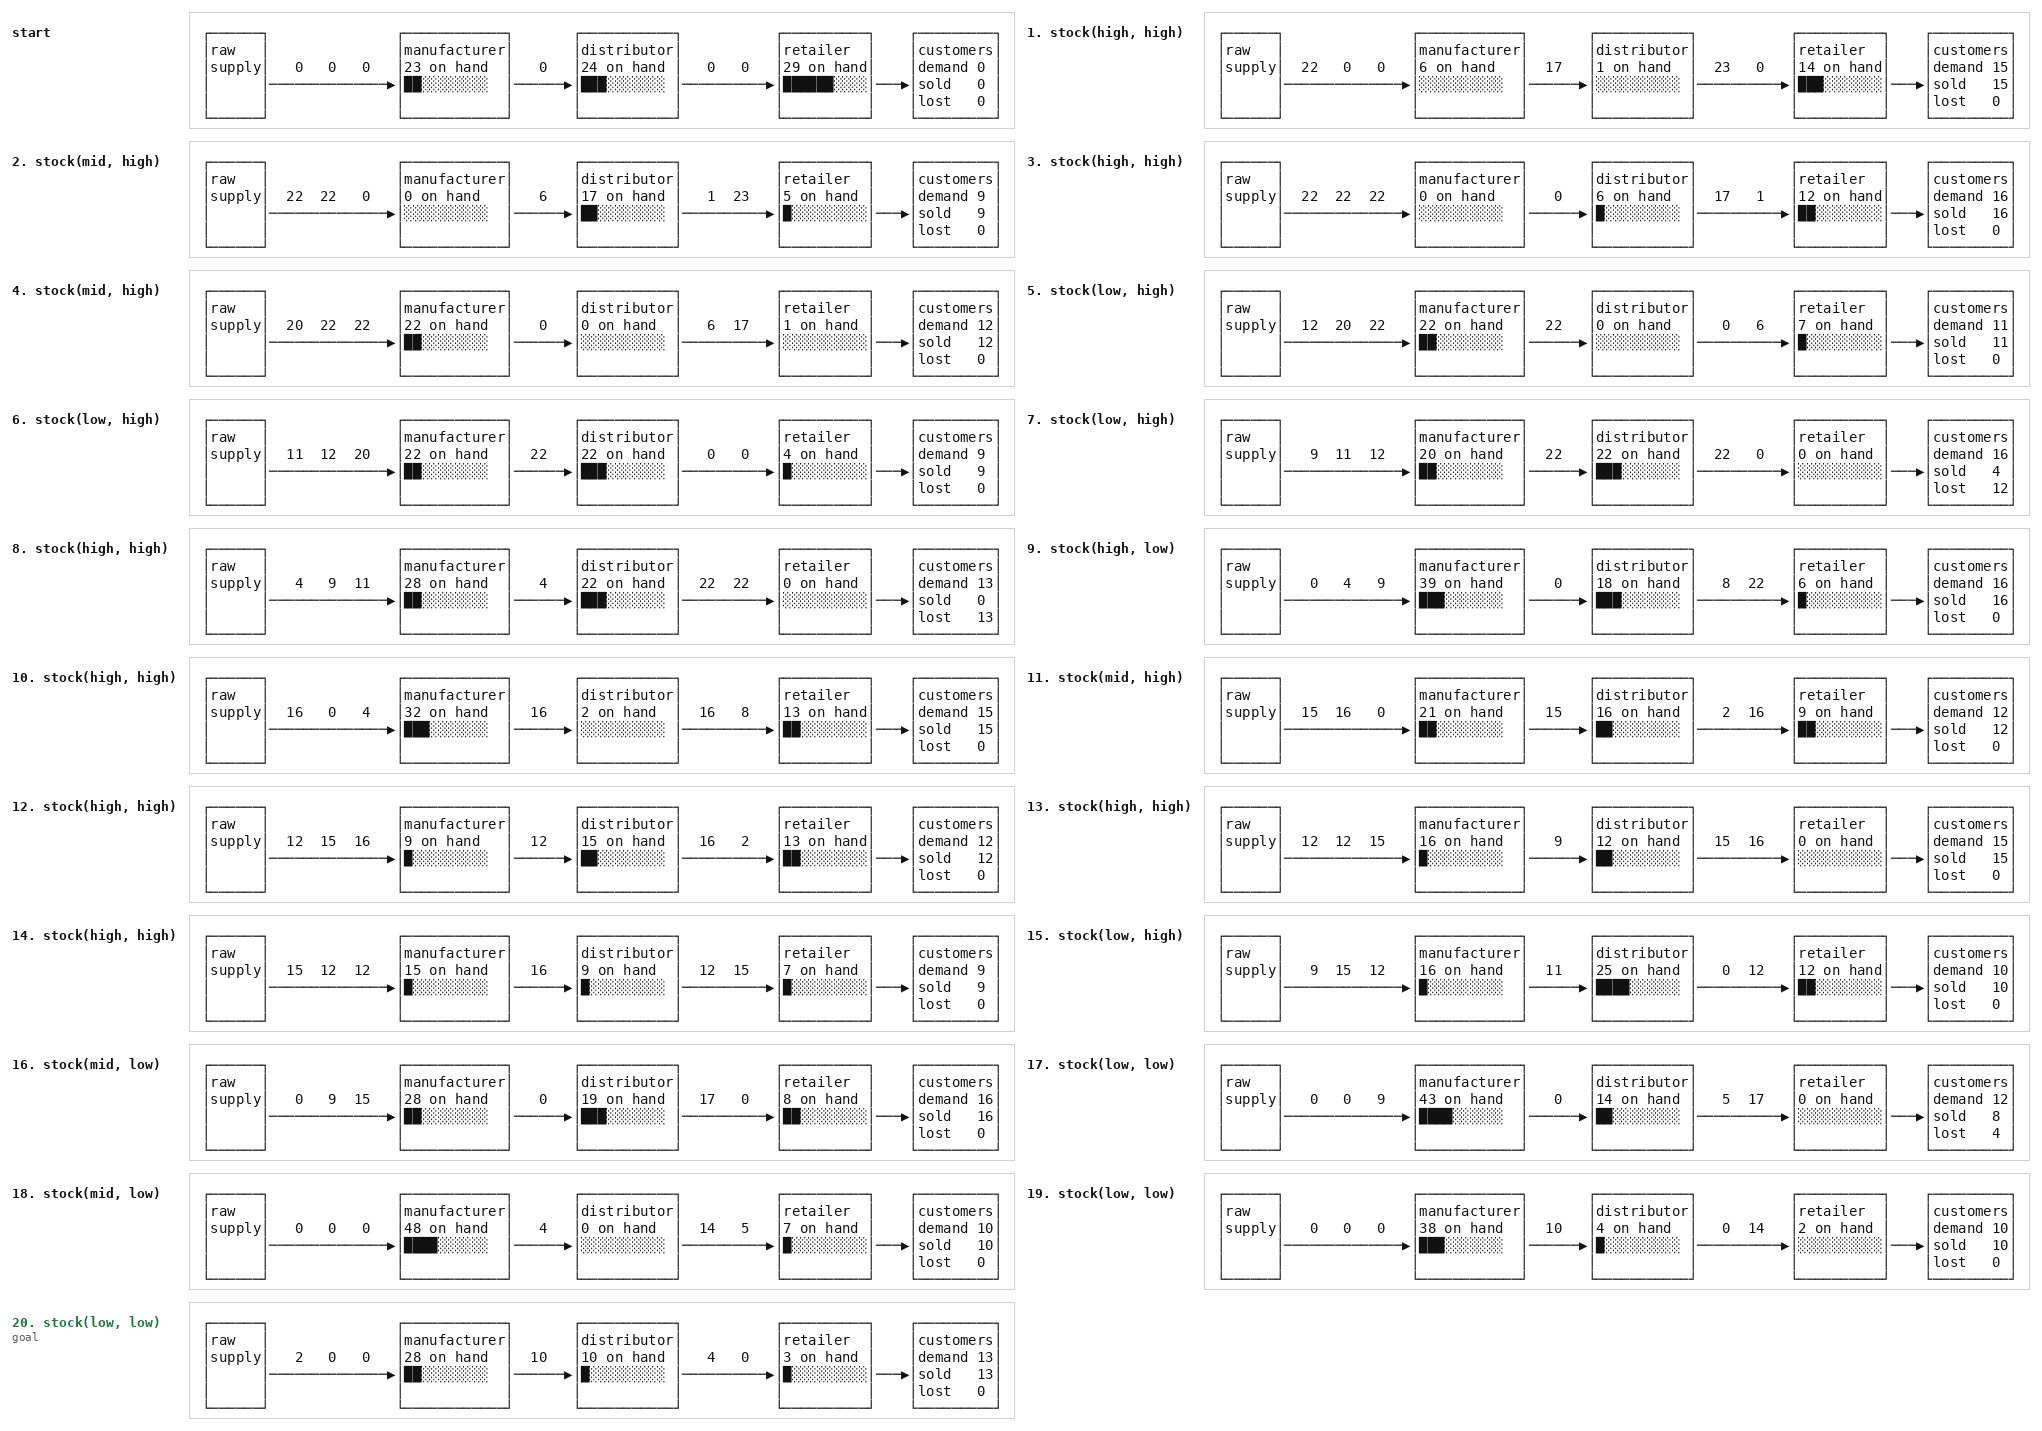
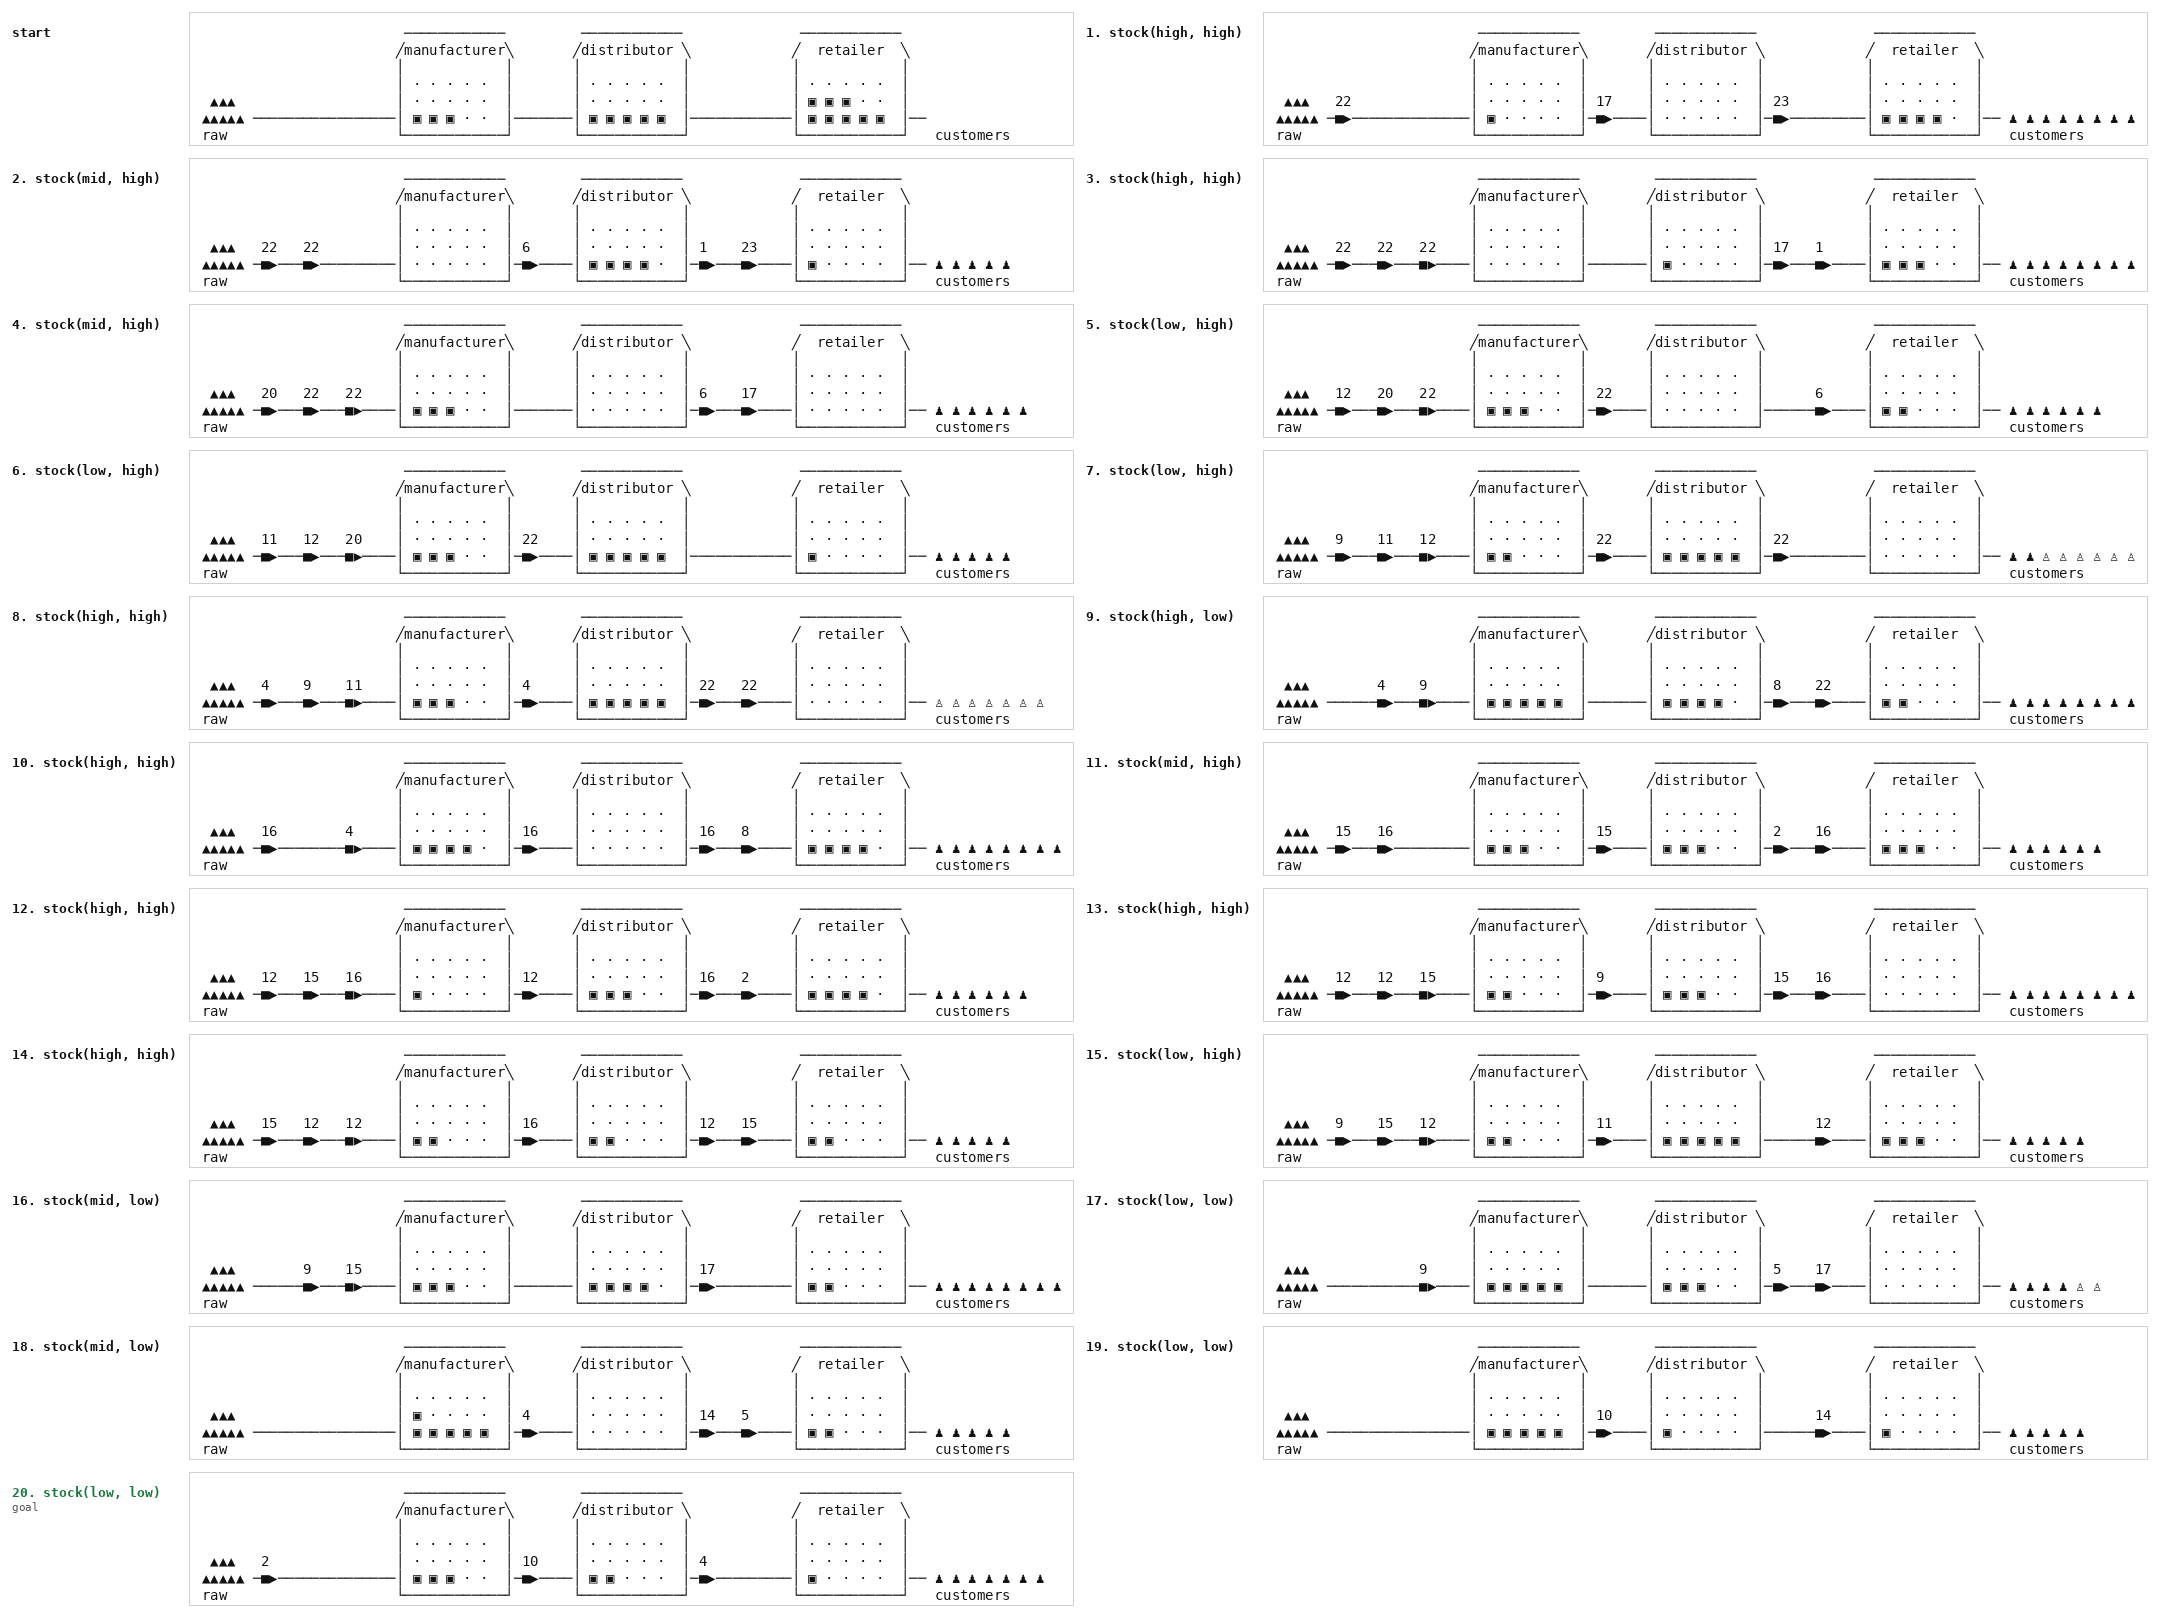
Draw the supply chain as a street of warehouses, trucks and customers
Each stage is a warehouse with its stock stacked as crates, each shipment
in transit a truck on the road into it with its load, and the last
period's customers queue at the end, served or turned away.

Claude-Session: https://claude.ai/code/session_01CbUM6vVu3Q3wBSzyXUJpxb

diff --git a/planiverse/environments/operational/inventory/environment.py b/planiverse/environments/operational/inventory/environment.py
@@ -46,7 +46,7 @@ from collections import namedtuple
 
 from planiverse.environments.base import Environment
 from planiverse.environments.generation import draw_until, rng
-from planiverse.rendering.text import Canvas, bar
+from planiverse.rendering.text import Canvas
 
 #: The three stages that hold stock, downstream first; the fourth is the raw material supplier.
 STAGES = ("retailer", "distributor", "manufacturer")
@@ -145,8 +145,12 @@ ACTIONS = tuple(InventoryAction(r, u) for r in LEVELS for u in LEVELS)
 #: `STAGES`, its highest order-up-to level. One per season, shared by its states.
 ChainMap = namedtuple("ChainMap", ["scale"])
 
-#: The length of a stage's stock bar, in characters.
-BAR = 10
+#: A picture's warehouse: crates across and stacked high, filled against the stage's highest
+#: order-up-to level; how a crate, an empty space, a truck and a customer served or turned
+#: away are drawn; and how many units a customer stands for.
+CRATES, STACK = 5, 3
+CRATE, SPACE, TRUCK = "▣", "·", "■▶"
+SERVED, TURNED_AWAY, PER_CUSTOMER = "♟", "♙", 2
 
 
 class InventoryState:
@@ -203,43 +207,64 @@ class InventoryState:
                 f"profit={self.profit:.2f}, lost={self.lost})>")
 
     def __str__(self):
-        """The supply chain as a row of boxes.
+        """The supply chain as a street of warehouses.
 
-        Raw material flows from the supplier through the manufacturer and the distributor to
-        the retailer and its customers. Each stage's box holds its stock on hand, as a number
-        and as a bar against its highest order-up-to level; the arrow into it carries the
-        shipments in transit, the one due soonest nearest the box; the last box is this
-        period's demand, what was sold and what was lost.
+        Raw material, a heap, flows from the supplier through the manufacturer and the
+        distributor to the retailer and its customers. Each stage is a warehouse with its
+        stock stacked inside as crates ▣, filled against its highest order-up-to level; each
+        shipment in transit is a truck ■▶ on the road into it, at its place along the lead
+        time with its load above it; and at the end the customers queue, ♟ for each served and
+        ♙ for each turned away, one for every `PER_CUSTOMER` units.
         """
         demand, sold, lost, _ = self.last
         scale = (self.chain.scale if self.chain is not None
                  else (max(self.on_hand) or 1,) * len(STAGES))
-        boxes = [("raw", "supply", "", "")]
-        arrows = []
-        for stage in reversed(range(len(STAGES))):
-            arrows.append(self.pipeline[stage])
-            boxes.append((STAGES[stage], f"{self.on_hand[stage]} on hand",
-                          bar(self.on_hand[stage], scale[stage], BAR), ""))
-        arrows.append(())
-        boxes.append(("customers", f"demand {demand}", f"sold   {sold}", f"lost   {lost}"))
-        widths = [max(len(text) for text in box) + 2 for box in boxes]
-        gaps = [max(4, 4 * len(shipments) + 3) for shipments in arrows]
-        canvas = Canvas(sum(widths) + sum(gaps) + 2, 6)
-        x = 0
-        for number, box in enumerate(boxes):
-            width = widths[number]
-            canvas.rect(x, 0, x + width - 1, 5)
-            for row, text in enumerate(box):
-                canvas.write(x + 1, row + 1, text)
-            if number < len(arrows):
-                start, end = x + width, x + width + gaps[number] - 1
-                canvas.hline(start, end - 1, 3, char="─")
-                canvas.put(end, 3, "▶")
-                slot = start + 1
-                for quantity in reversed(arrows[number]):
-                    canvas.write(slot, 2, f"{quantity:>3}")
-                    slot += 4
-                x = end + 1
+        inside = max(2 * CRATES + 1, max(len(name) for name in STAGES))
+        margin = (inside - (2 * CRATES - 1)) // 2
+        floor = STACK + 3
+        height = floor + 1
+        stages = list(reversed(range(len(STAGES))))
+        roads = [5 * max(1, len(self.pipeline[stage])) + 2 for stage in stages]
+        queue = -(-demand // PER_CUSTOMER) if demand else 0
+        width = 8 + sum(inside + 2 + road for road in roads) + max(10, 2 * queue + 2)
+        canvas = Canvas(width, height)
+        # the raw material, a heap at the start of the street
+        canvas.write(0, floor - 2, " ▲▲▲")
+        canvas.write(0, floor - 1, "▲▲▲▲▲")
+        canvas.write(0, floor, "raw")
+        x = 6
+        for stage, road in zip(stages, roads):
+            # the road in, a truck for each shipment in transit, the soonest nearest the door
+            shipments = self.pipeline[stage]
+            canvas.hline(x, x + road - 1, floor - 1, "─")
+            for slot, quantity in enumerate(reversed(shipments)):
+                if quantity:
+                    at = x + 1 + 5 * slot
+                    canvas.write(at, floor - 1, TRUCK)
+                    canvas.write(at, floor - 2, f"{quantity}")
+            x += road
+            # the warehouse, its roof, its name and its crates
+            right = x + inside + 1
+            canvas.put(x, 1, "╱")
+            canvas.hline(x + 1, right - 1, 0, "─")
+            canvas.put(right, 1, "╲")
+            canvas.vline(x, 2, floor, "│")
+            canvas.vline(right, 2, floor, "│")
+            canvas.hline(x, right, floor, "─")
+            canvas.put(x, floor, "└")
+            canvas.put(right, floor, "┘")
+            canvas.write(x + 1, 1, STAGES[stage][:inside].center(inside))
+            full = int(round(min(1.0, self.on_hand[stage] / (scale[stage] or 1)) * CRATES * STACK))
+            for k in range(CRATES * STACK):
+                row, column = floor - 1 - k // CRATES, x + 1 + margin + 2 * (k % CRATES)
+                canvas.put(column, row, CRATE if k < full else SPACE)
+            x = right + 1
+        # the customers, queued at the retailer's door
+        canvas.hline(x, x + 1, floor - 1, "─")
+        served = -(-sold // PER_CUSTOMER) if sold else 0
+        for k in range(queue):
+            canvas.put(x + 3 + 2 * k, floor - 1, SERVED if k < served else TURNED_AWAY)
+        canvas.write(x + 3, floor, "customers")
         return str(canvas)
 
 

diff --git a/tests/test_inventory.py b/tests/test_inventory.py
@@ -179,12 +179,13 @@ def test_the_picture_draws_the_chain(inventory):
     state, _ = inventory.reset()
     picture = str(state)
     assert isinstance(picture, str) and picture and not missing_glyphs(picture)
-    for name in ("raw", "manufacturer", "distributor", "retailer", "customers", "▶"):
+    for name in ("raw", "manufacturer", "distributor", "retailer", "customers", "▣"):
         assert name in picture
-    assert f"{state.on_hand[0]} on hand" in picture
     child = inventory.__advance__(state, ACTIONS[4])
-    assert str(child) != picture
-    assert f"demand {child.last[0]}" in str(child)
+    assert str(child) != picture and "■▶" in str(child), "the shipments are trucks on the road"
+    demand, sold, lost, _ = child.last
+    queue = str(child).count("♟") + str(child).count("♙")
+    assert queue == -(-demand // 2), "a customer for every two units of demand"
     assert len(str(child).splitlines()) == len(picture.splitlines()), \
         "the geometry is the season's, so a GIF of a trace does not jump"
     assert "chain" not in state.key

diff --git a/docs/environments/inventory.md b/docs/environments/inventory.md
@@ -153,19 +153,21 @@ sixteen periods, then both low for four) ends at 270.76, which is where the targ
 
 ![BFWS solving inventory instance 0](../renders/inventory.gif)
 
-Each frame is the state's picture, the supply chain as a row of boxes: the raw material supplier,
-the manufacturer, the distributor, the retailer and its customers, with the goods flowing left to
-right. Each stage's box holds its stock on hand, as a number and as a bar against the stage's
-highest order-up-to level. The arrow into a stage carries the shipments in transit to it, one slot a
-period of its lead time, the one due soonest nearest the box. The customers' box is the last
-period's demand, what the retailer sold and what it lost.
+Each frame is the state's picture, the supply chain as a street of warehouses: the raw material, a
+heap, then the manufacturer, the distributor and the retailer, and the retailer's customers, with
+the goods travelling left to right. Each warehouse holds its stock on hand stacked as crates, filled
+against the stage's highest order-up-to level. Each shipment in transit to a stage is a truck on
+the road into it, at its place along the lead time with its load above it, the one due soonest
+nearest the door. At the end the last period's customers queue, those served and those turned away,
+one for every two units of demand.
 
 | Mark | Meaning |
 |---|---|
-| `│29 on hand│` | a stage's stock on hand |
-| `██████░░░░` | the same, against the stage's highest order-up-to level |
-| `15  20   0 ───▶` | the shipments in transit, the last due soonest |
-| `demand`, `sold`, `lost` | the last period's demand at the retailer, its sales and its lost sales |
+| `▲▲▲` | the raw material |
+| `▣`, `·` | a warehouse's crates, filled against its highest order-up-to level |
+| `■▶` with a number | a truck in transit with its load |
+| `♟` | a customer served |
+| `♙` | a customer turned away, a lost sale |
 
 The same plan is also a [sheet](../renders/inventory.png), every state on one figure, each
 captioned with the action that produced it and the goal marked where the plan ends. Both were
@@ -247,7 +249,7 @@ and `spaces.Box`) work.
 ## Rendering
 
 A frame typesets `str(state)`, the chain drawn as above: the stock on hand at each stage, the units
-in transit to each, the last period's demand, sales and lost sales; the bars' scale is the season's,
+in transit to each, the last period's demand, sales and lost sales; the crates' scale is the season's,
 held once per season in a `ChainMap` the states share, outside their identity and literals. Its
 numbers by name are its `readings()`, which the OpenSpiel game's observation is made of, and
 [docs/rendering.md](../rendering.md) covers the other output formats.
